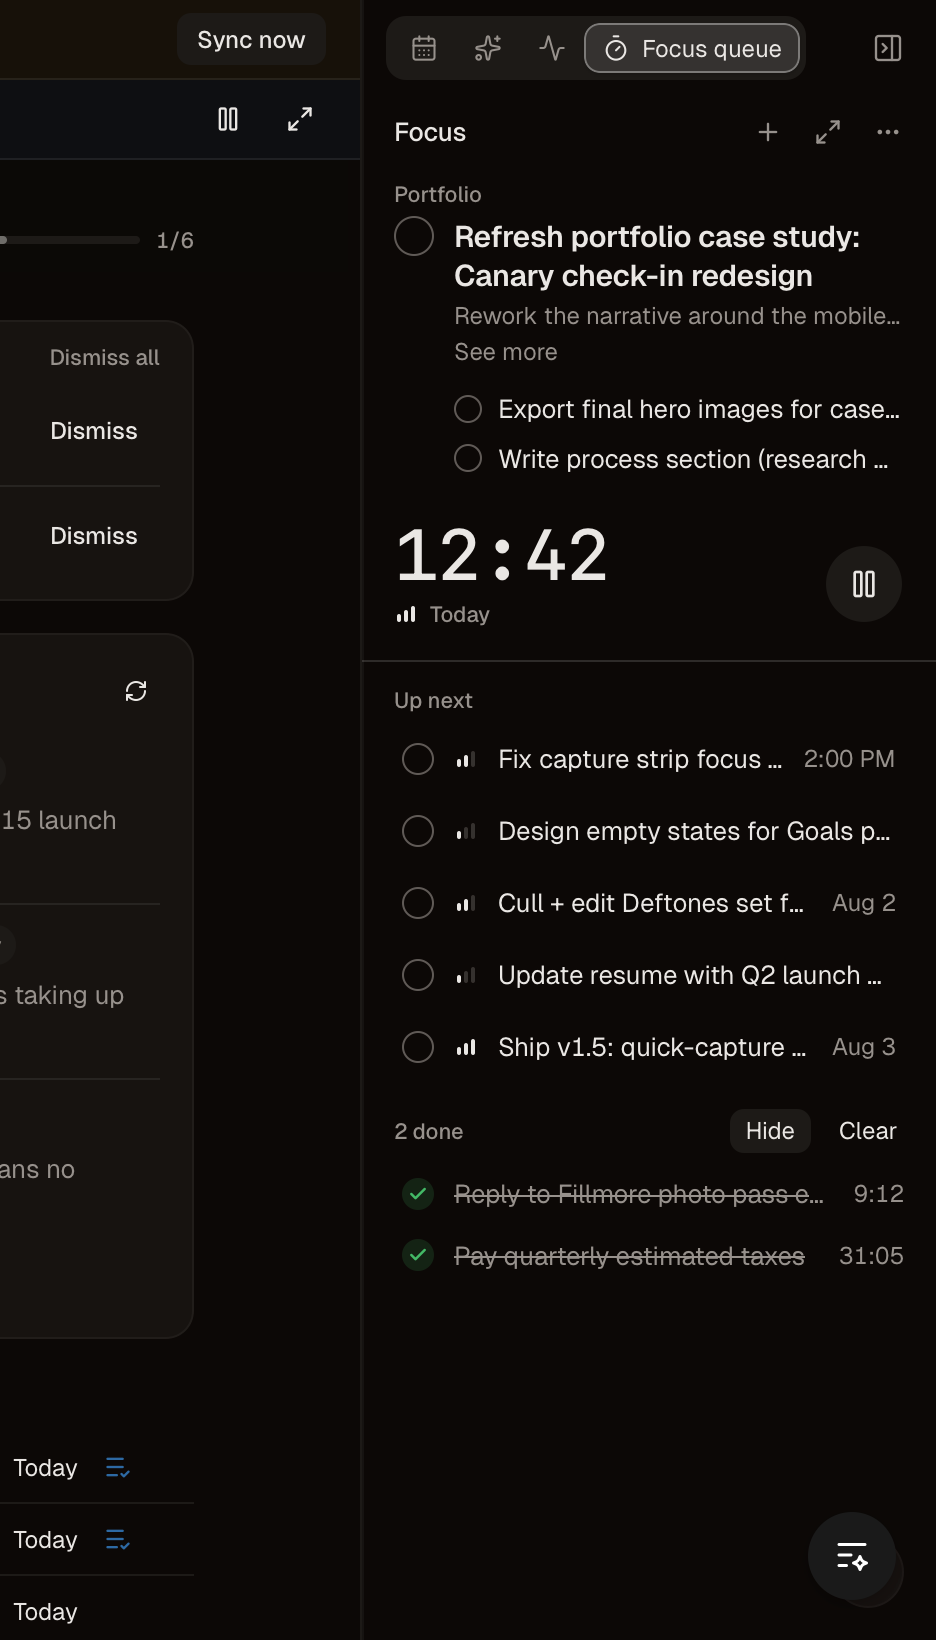
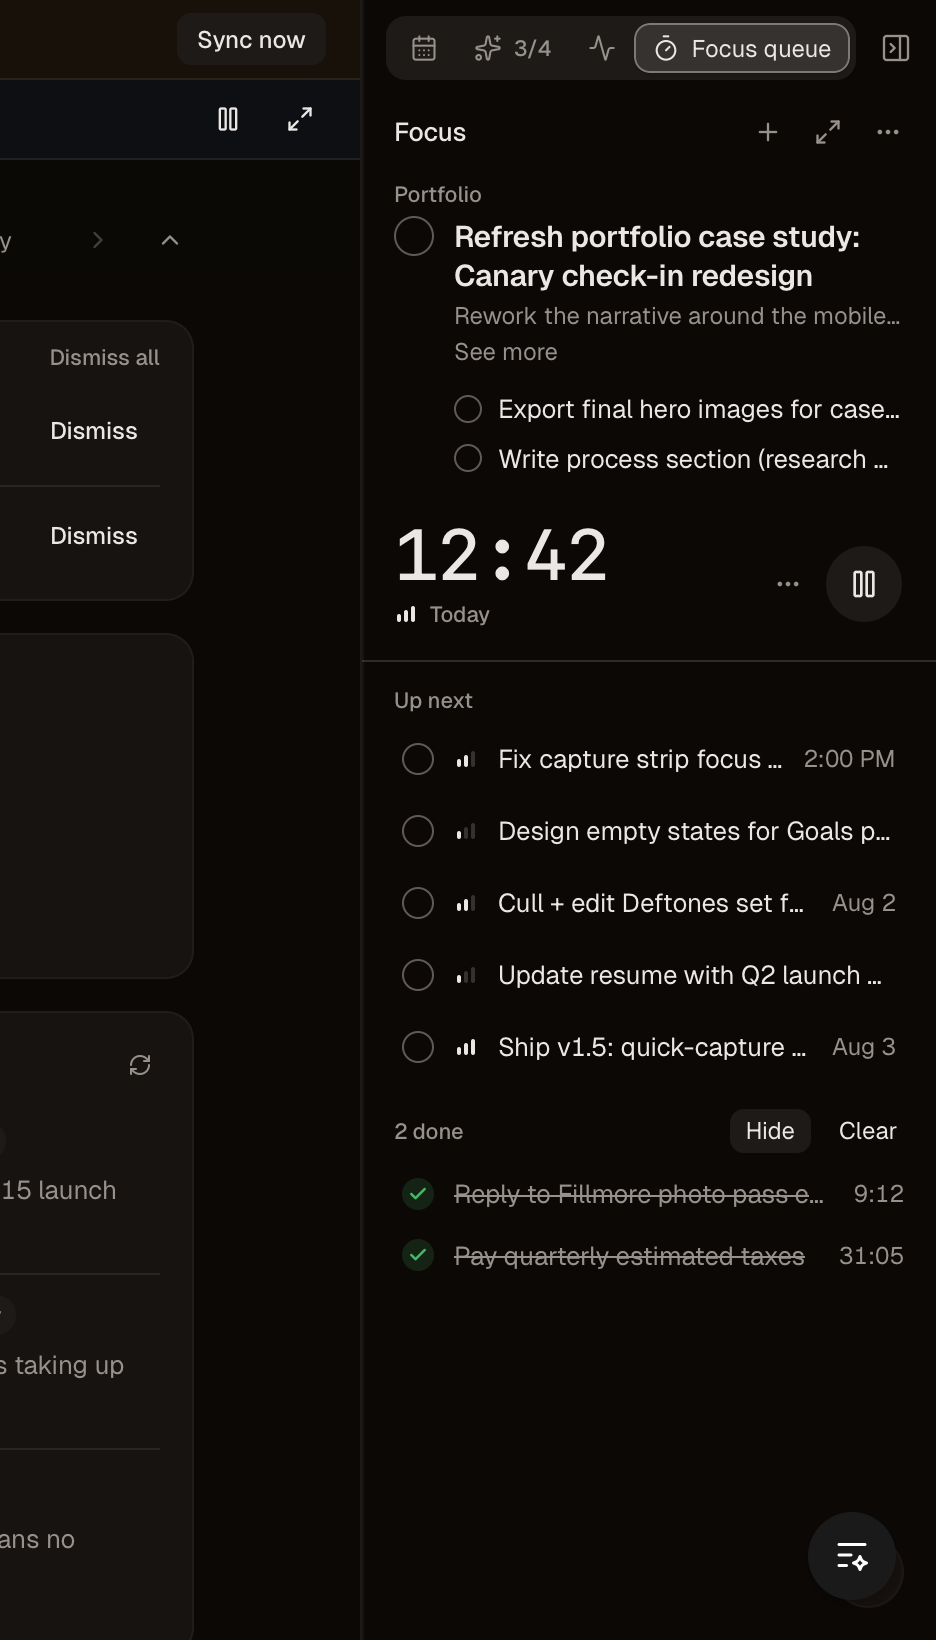
feat(focus): task ⋯ beside Start/Pause, 48px timer in full view, Still open collapsed
Marco's calls on the loop 2 open questions:

- The card's task ⋯ moves from the hover-revealed top-right to a quiet,
  always-visible ghost ⋯ immediately left of the play circle (explicit Tab
  stop). One ⋯ on the card; the header ⋯ is the only one up top. Applies to
  the rail, companion and full view; compact companion height unchanged
  (323px frame in the harness).
- Timer: FocusView passes timerSize="display" (--text-timer, 48px); the
  rail and companion keep --text-timer-sm (36px).
- + panel: "Still open · N ›" is a collapsed disclosure button on every
  open (aria-expanded/aria-controls); Queue all and per-row add appear once
  expanded. The toggle stays usable when read-only.

Screenshots refreshed (light + dark rail/full, light companion); the stale
keyboard-focus shot of the old top-right ⋯ is removed.

diff --git a/apps/desktop/src/components/focus/FocusTaskCard.tsx b/apps/desktop/src/components/focus/FocusTaskCard.tsx
@@ -10,7 +10,7 @@ import {
 } from '@/components/ui/dropdown-menu'
 import { PriorityBars } from '@/components/shared/PriorityBars'
 import { Caption, Label, Meta } from '@/components/shared/typography'
-import { FocusTimeboxPicker } from '@/components/focus/FocusTimeboxPicker'
+import { FocusTimeboxPicker, type FocusTimerSize } from '@/components/focus/FocusTimeboxPicker'
 import { cn } from '@/lib/utils'
 import {
   cardCaption,
@@ -65,13 +65,6 @@ export function CompletionButton({
     </button>
   )
 }
-
-/**
- * Quiet task actions: the ⋯ shows on keyboard focus and while its menu is
- * open; pair it with the parent's `group-hover:opacity-100` variant.
- */
-export const TASK_MENU_REVEAL =
-  'opacity-0 transition-opacity duration-(--transition-fast) focus-within:opacity-100 has-[[data-popup-open]]:opacity-100 motion-reduce:transition-none'
 
 /** One "More actions" menu for the card and each row. Clicks never reach the row. */
 export function FocusTaskMenu({
@@ -241,13 +234,15 @@ export interface FocusTaskCardProps {
   headingRef?: Ref<HTMLHeadingElement>
   /** A focus action is awaiting its commit: gate the controls that would repeat it. */
   busy?: boolean
+  /** `display` (48px) for the full view; `sm` (36px) for the rail and companion. */
+  timerSize?: FocusTimerSize
 }
 
 /**
  * The focused task, quiet around a hero title: a small muted place label,
- * completion + title (full width — task actions live in one ⋯ revealed on
- * hover/focus at the top-right), inline subtasks, then the timer with one
- * caption line (budget · priority · due) and the circular Start/Pause.
+ * completion + title (full width — nothing sits beside it), inline
+ * subtasks, then the timer with one caption line (budget · priority · due)
+ * and, bottom-right, the task ⋯ beside the circular Start/Pause.
  * Surface controls (add, queue toggle, sounds) live in the surface header.
  * Rendering it never starts timing.
  */
@@ -267,6 +262,7 @@ export function FocusTaskCard({
   onRenameCancel,
   headingRef,
   busy = false,
+  timerSize = 'sm',
 }: FocusTaskCardProps) {
   const reasonId = useId()
   const displayExtra = useFocusDisplayExtra(snapshot, entry, capabilities?.live_timing === true)
@@ -317,9 +313,9 @@ export function FocusTaskCard({
   const description = task.description?.trim() ?? ''
 
   return (
-    <section aria-label="Focused task" className="group/card relative px-4 pt-1 pb-4">
+    <section aria-label="Focused task" className="px-4 pt-1 pb-4">
       {placeLabel && (
-        <Label as="p" data-slot="focus-place" className="block truncate pr-8">
+        <Label as="p" data-slot="focus-place" className="block truncate">
           {placeLabel}
         </Label>
       )}
@@ -338,26 +334,12 @@ export function FocusTaskCard({
             <InlineRename task={task} className="text-title" onCommit={(c) => onRename(task, c)} onCancel={onRenameCancel} />
           ) : (
             <h2 ref={headingRef} tabIndex={-1} className="text-title break-words text-foreground outline-none">
-              {/* Without a place label the ⋯ sits on the title's first line: keep that corner clear. */}
-              {!placeLabel && <span aria-hidden className="float-right h-5 w-6" />}
               {task.content}
             </h2>
           )}
           {description && <FocusTaskDescription key={task.id} text={description} />}
         </div>
       </div>
-      {/* Task actions sit top-right, out of the title's way until hover or
-          keyboard focus; in the DOM they follow the title, so Tab order
-          reads completion → title → actions. An explicit tabIndex keeps the
-          trigger a Tab stop in WKWebView, which skips plain buttons unless
-          macOS keyboard navigation is on (it now holds Copy context). */}
-      <FocusTaskMenu
-        task={task}
-        place="card"
-        tabIndex={0}
-        onSelect={(id) => onMenu(id, task, entry)}
-        className={cn('absolute top-0.5 right-3 group-hover/card:opacity-100', TASK_MENU_REVEAL)}
-      />
 
       {subtasks.length > 0 && (
         <ul aria-label="Subtasks" className="mt-2.5 ml-7.5 flex flex-col gap-1.5">
@@ -385,19 +367,27 @@ export function FocusTaskCard({
             ) : null
           }
           disabledReason={writeBlocked}
+          size={timerSize}
           onConfigure={(config) => void onAction({ kind: 'configure', occurrence_id: entry.occurrence_id, config })}
         />
-        <Button
-          aria-label={control.label}
-          aria-describedby={blocked ? reasonId : undefined}
-          aria-busy={busy || undefined}
-          disabled={blocked != null || busy}
-          variant={running ? 'secondary' : 'default'}
-          onClick={() => void onAction(control.action)}
-          className="mb-0.5 size-10 shrink-0 rounded-full p-0"
-        >
-          {running ? <Pause className="size-4" aria-hidden /> : <Play className="size-4" aria-hidden />}
-        </Button>
+        {/* Task actions sit with the controls: a quiet, always-visible ⋯
+            just left of Start/Pause. The explicit tabIndex keeps it a Tab
+            stop in WKWebView, which skips plain buttons unless macOS
+            keyboard navigation is on (it holds Copy assistant context). */}
+        <div className="mb-0.5 flex shrink-0 items-center gap-1.5">
+          <FocusTaskMenu task={task} place="card" tabIndex={0} onSelect={(id) => onMenu(id, task, entry)} />
+          <Button
+            aria-label={control.label}
+            aria-describedby={blocked ? reasonId : undefined}
+            aria-busy={busy || undefined}
+            disabled={blocked != null || busy}
+            variant={running ? 'secondary' : 'default'}
+            onClick={() => void onAction(control.action)}
+            className="size-10 shrink-0 rounded-full p-0"
+          >
+            {running ? <Pause className="size-4" aria-hidden /> : <Play className="size-4" aria-hidden />}
+          </Button>
+        </div>
       </div>
       {blocked && (
         <Caption as="p" id={reasonId} className="mt-1.5 text-right">

diff --git a/apps/desktop/src/components/focus/FocusAddPopover.tsx b/apps/desktop/src/components/focus/FocusAddPopover.tsx
@@ -1,5 +1,5 @@
-import { useRef, useState, type RefObject } from 'react'
-import { ChevronDown, Plus } from 'lucide-react'
+import { useId, useRef, useState, type RefObject } from 'react'
+import { ChevronDown, ChevronRight, Plus } from 'lucide-react'
 import { Button } from '@/components/ui/button'
 import { Textarea } from '@/components/ui/textarea'
 import { Popover, PopoverContent, PopoverTrigger } from '@/components/ui/popover'
@@ -56,6 +56,8 @@ export interface FocusAddPanelProps {
   draft: string
   onDraftChange: (text: string) => void
   inputRef?: RefObject<HTMLTextAreaElement | null>
+  /** Still open starts collapsed each time the panel opens (tests may start it open). */
+  initialStillOpenExpanded?: boolean
 }
 
 /**
@@ -79,9 +81,12 @@ export function FocusAddPanel({
   draft,
   onDraftChange,
   inputRef,
+  initialStillOpenExpanded = false,
 }: FocusAddPanelProps) {
   const [error, setError] = useState<string | null>(null)
   const [busy, setBusy] = useState(false)
+  const [stillOpenExpanded, setStillOpenExpanded] = useState(initialStillOpenExpanded)
+  const stillOpenId = useId()
   const label = sourceLabel(source, displayProjects ?? projects)
   const placeholder = source.kind === 'today' ? 'Add task to Today' : source.kind === 'local' ? 'Add a Nimble-only task' : `Add task to ${label}`
   const addLabel = addToQueueLabel(newCount, sourceCount)
@@ -180,35 +185,49 @@ export function FocusAddPanel({
 
       {stillOpen.length > 0 && (
         <section aria-label="Still open" className="-mx-2.5 border-t border-border px-2.5 pt-2">
-          <div className="flex items-center justify-between gap-2">
-            <Label>{`Still open · ${stillOpen.length}`}</Label>
-            <Button
-              size="xs"
-              variant="ghost"
-              disabled={blockedReason != null}
-              title={blockedReason ?? undefined}
-              onClick={() => onAddStillOpen(stillOpen.map((t) => t.id))}
+          <div className="flex min-h-6 items-center justify-between gap-2">
+            {/* Collapsed on every open: earlier work is offered, never pushed. */}
+            <button
+              type="button"
+              aria-expanded={stillOpenExpanded}
+              aria-controls={stillOpenId}
+              onClick={() => setStillOpenExpanded((v) => !v)}
+              className="-ml-1 flex items-center gap-1 rounded-md px-1 py-0.5 text-muted-foreground transition-colors duration-(--transition-fast) hover:text-foreground focus-ring"
             >
-              Queue all
-            </Button>
+              <Label tone={null} className="text-inherit">{`Still open · ${stillOpen.length}`}</Label>
+              <ChevronRight className={cn('size-3 shrink-0 transition-transform duration-(--transition-fast) motion-reduce:transition-none', stillOpenExpanded && 'rotate-90')} aria-hidden />
+            </button>
+            {stillOpenExpanded && (
+              <Button
+                size="xs"
+                variant="ghost"
+                disabled={blockedReason != null}
+                title={blockedReason ?? undefined}
+                onClick={() => onAddStillOpen(stillOpen.map((t) => t.id))}
+              >
+                Queue all
+              </Button>
+            )}
           </div>
-          <ul className="-mx-1 mt-1 max-h-40 overflow-y-auto">
-            {stillOpen.map((task) => (
-              <li key={task.id} className="flex min-w-0 items-center gap-2 px-1 py-0.5">
-                <span className="min-w-0 flex-1 truncate text-meta text-foreground">{task.content}</span>
-                <Meta className="shrink-0">{dueLabel(task, today)}</Meta>
-                <IconButton
-                  aria-label={`Add ${task.content} to queue`}
-                  disabled={blockedReason != null}
-                  title={blockedReason ?? undefined}
-                  onClick={() => onAddStillOpen([task.id])}
-                  className="focus-ring disabled:opacity-50"
-                >
-                  <Plus className="size-3" aria-hidden />
-                </IconButton>
-              </li>
-            ))}
-          </ul>
+          {stillOpenExpanded && (
+            <ul id={stillOpenId} className="-mx-1 mt-1 max-h-40 overflow-y-auto">
+              {stillOpen.map((task) => (
+                <li key={task.id} className="flex min-w-0 items-center gap-2 px-1 py-0.5">
+                  <span className="min-w-0 flex-1 truncate text-meta text-foreground">{task.content}</span>
+                  <Meta className="shrink-0">{dueLabel(task, today)}</Meta>
+                  <IconButton
+                    aria-label={`Add ${task.content} to queue`}
+                    disabled={blockedReason != null}
+                    title={blockedReason ?? undefined}
+                    onClick={() => onAddStillOpen([task.id])}
+                    className="focus-ring disabled:opacity-50"
+                  >
+                    <Plus className="size-3" aria-hidden />
+                  </IconButton>
+                </li>
+              ))}
+            </ul>
+          )}
         </section>
       )}
     </div>

diff --git a/apps/desktop/tests/fixtures/focusRender.tsx b/apps/desktop/tests/fixtures/focusRender.tsx
@@ -88,7 +88,7 @@ const taskOps: FocusTaskOps = {
 }
 const noop = () => {}
 
-export function renderFocusCard(opts: { missingTask?: boolean; live?: boolean; running?: boolean; resumable?: boolean; overtimeMs?: number; countUpMs?: number; plain?: boolean } = {}): string {
+export function renderFocusCard(opts: { missingTask?: boolean; live?: boolean; running?: boolean; resumable?: boolean; overtimeMs?: number; countUpMs?: number; plain?: boolean; timerSize?: 'sm' | 'display' } = {}): string {
   const snap = opts.countUpMs != null
     ? snapshot({ config: countUp, totalMs: opts.countUpMs })
     : snapshot({ totalMs: opts.overtimeMs != null ? 25 * MIN + opts.overtimeMs : undefined,
@@ -105,6 +105,7 @@ export function renderFocusCard(opts: { missingTask?: boolean; live?: boolean; r
       onAction={never}
       onCompleteSubtask={noop}
       onMenu={noop}
+      timerSize={opts.timerSize}
     />,
   )
 }
@@ -136,7 +137,7 @@ export function renderCompactFocus(): string {
 }
 
 /** The `+` popover body, fed by the same `focusAddState` the tray uses. */
-export function renderAddPanel(opts: { source?: 'project' | 'local'; readOnly?: boolean } = {}): string {
+export function renderAddPanel(opts: { source?: 'project' | 'local'; readOnly?: boolean; stillOpenExpanded?: boolean } = {}): string {
   const source: FocusSource = opts.source === 'project' ? { kind: 'project', project_id: 'p1' } : opts.source === 'local' ? { kind: 'local' } : { kind: 'today' }
   const state = focusAddState(tasks, source, TODAY, snapshot(), sections)
   const blocked = queueBlockedReason(opts.readOnly ? caps({ queue_write: false, reason: 'Replica is read-only' }) : caps())
@@ -155,6 +156,7 @@ export function renderAddPanel(opts: { source?: 'project' | 'local'; readOnly?: 
       onQuickAdd={never}
       draft=""
       onDraftChange={noop}
+      initialStillOpenExpanded={opts.stillOpenExpanded}
     />,
   )
 }

diff --git a/apps/desktop/src/components/focus/FocusTimeboxPicker.tsx b/apps/desktop/src/components/focus/FocusTimeboxPicker.tsx
@@ -21,7 +21,11 @@ const PHASE_CLASS: Record<TimerPhase, string> = {
   overtime: 'text-destructive',
 }
 
+/** `display` = --text-timer (48, full view); `sm` = --text-timer-sm (36, rail and companion). */
+export type FocusTimerSize = 'sm' | 'display'
+
 interface FocusTimeboxPickerProps {
+  size?: FocusTimerSize
   config: FocusConfig
   presentation: TimerPresentation
   /** The line under the timer (budget caption joined with the task's meta). */
@@ -36,7 +40,7 @@ interface FocusTimeboxPickerProps {
  * 15/25/45/60, custom minutes and count-up; Pomodoro is a secondary option.
  * Changing a budget never starts, pauses or resets timing.
  */
-export function FocusTimeboxPicker({ config, presentation, caption, disabledReason, onConfigure }: FocusTimeboxPickerProps) {
+export function FocusTimeboxPicker({ config, presentation, caption, disabledReason, onConfigure, size = 'sm' }: FocusTimeboxPickerProps) {
   const [open, setOpen] = useState(false)
   const [custom, setCustom] = useState('')
   const [customError, setCustomError] = useState<string | null>(null)
@@ -64,7 +68,8 @@ export function FocusTimeboxPicker({ config, presentation, caption, disabledReas
           disabled={disabledReason != null}
           data-phase={presentation.phase}
           className={cn(
-            'rounded-md text-timer-sm transition-opacity duration-(--transition-fast) hover:opacity-70 focus-ring disabled:hover:opacity-100 motion-reduce:transition-none',
+            size === 'display' ? 'text-timer' : 'text-timer-sm',
+            'rounded-md transition-opacity duration-(--transition-fast) hover:opacity-70 focus-ring disabled:hover:opacity-100 motion-reduce:transition-none',
             PHASE_CLASS[presentation.phase],
           )}
         >

diff --git a/apps/desktop/src/components/focus/FocusQueueTray.tsx b/apps/desktop/src/components/focus/FocusQueueTray.tsx
@@ -4,6 +4,7 @@ import { format, parseISO } from 'date-fns'
 import { Button } from '@/components/ui/button'
 import { Caption, Label } from '@/components/shared/typography'
 import { FocusTaskCard } from '@/components/focus/FocusTaskCard'
+import type { FocusTimerSize } from '@/components/focus/FocusTimeboxPicker'
 import { FocusQueueList, type FocusQueueRow } from '@/components/focus/FocusQueueList'
 import { FocusCompletedTray } from '@/components/focus/FocusCompletedTray'
 import { FocusAddPopover } from '@/components/focus/FocusAddPopover'
@@ -84,6 +85,8 @@ export interface FocusQueueTrayProps {
   headerActions?: ReactNode
   /** Surface-specific ⋯ items listed first (Pop out, Import…). */
   menuExtras?: PanelMenuExtra[]
+  /** Card timer size: `display` in the full view, `sm` (default) elsewhere. */
+  timerSize?: FocusTimerSize
 }
 
 /**
@@ -115,6 +118,7 @@ export function FocusQueueTray({
   title,
   headerActions,
   menuExtras,
+  timerSize,
 }: FocusQueueTrayProps) {
   const [compact, setCompact] = useState(initialCompact)
   const [source, setSource] = useState<FocusSource>(initialSource)
@@ -357,6 +361,7 @@ export function FocusQueueTray({
           onRenameCancel={() => setRenamingEntryId(null)}
           headingRef={headingRef}
           busy={busy}
+          timerSize={timerSize}
         />
 
         {/* Feedback stays in both modes. Failures render above the

diff --git a/apps/desktop/src/components/focus/FocusView.tsx b/apps/desktop/src/components/focus/FocusView.tsx
@@ -120,6 +120,7 @@ export function FocusView() {
             </IconButton>
           }
           menuExtras={menuExtras}
+          timerSize="display"
         />
       </div>
       {importOpen && <FocusImportDialog open={importOpen} onOpenChange={setImportOpen} />}
